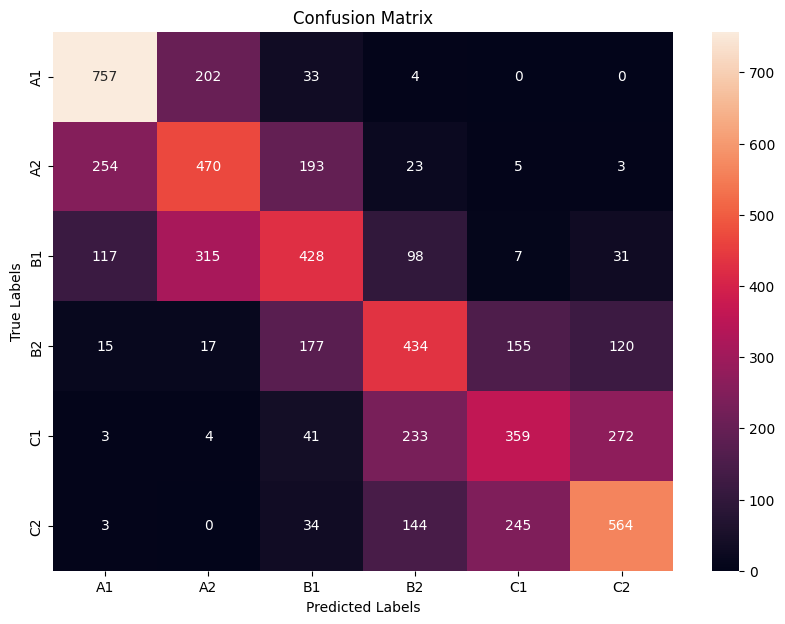
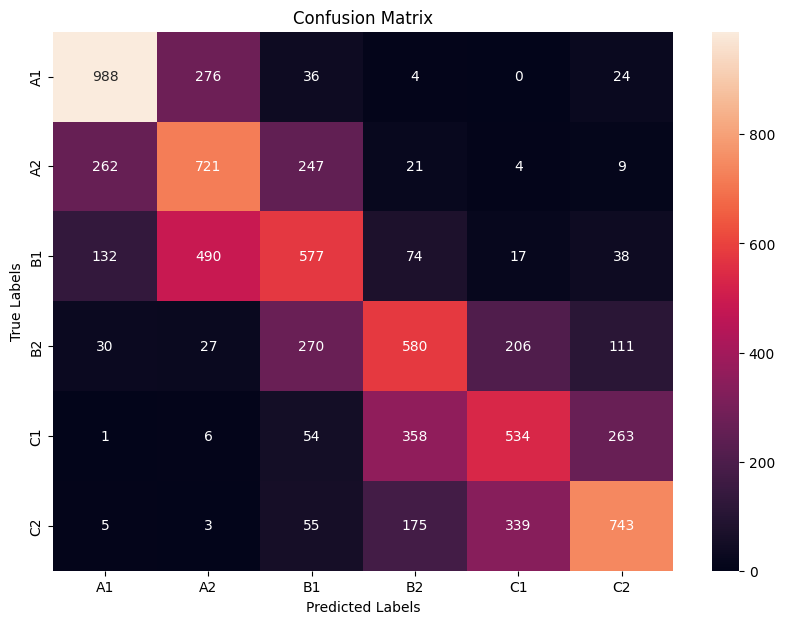
Ajout des metrics et matrix

diff --git a/README.md b/README.md
@@ -55,10 +55,10 @@ Let's break down the metrics of our best run.
 
 | | Best Run | 
 |:---------:|:---------:|
-| Precision | 0.5179 |  
-| Recall    | 0.523  | 
-| F1-score | 0.519 | 
-| Accuracy | 0.5431 | 
+| Precision | 0.54 |  
+| Recall    | 0.539  | 
+| F1-score | 0.538 | 
+| Accuracy | 0.56 | 
 
 The confusion matrix is as followed :
 
